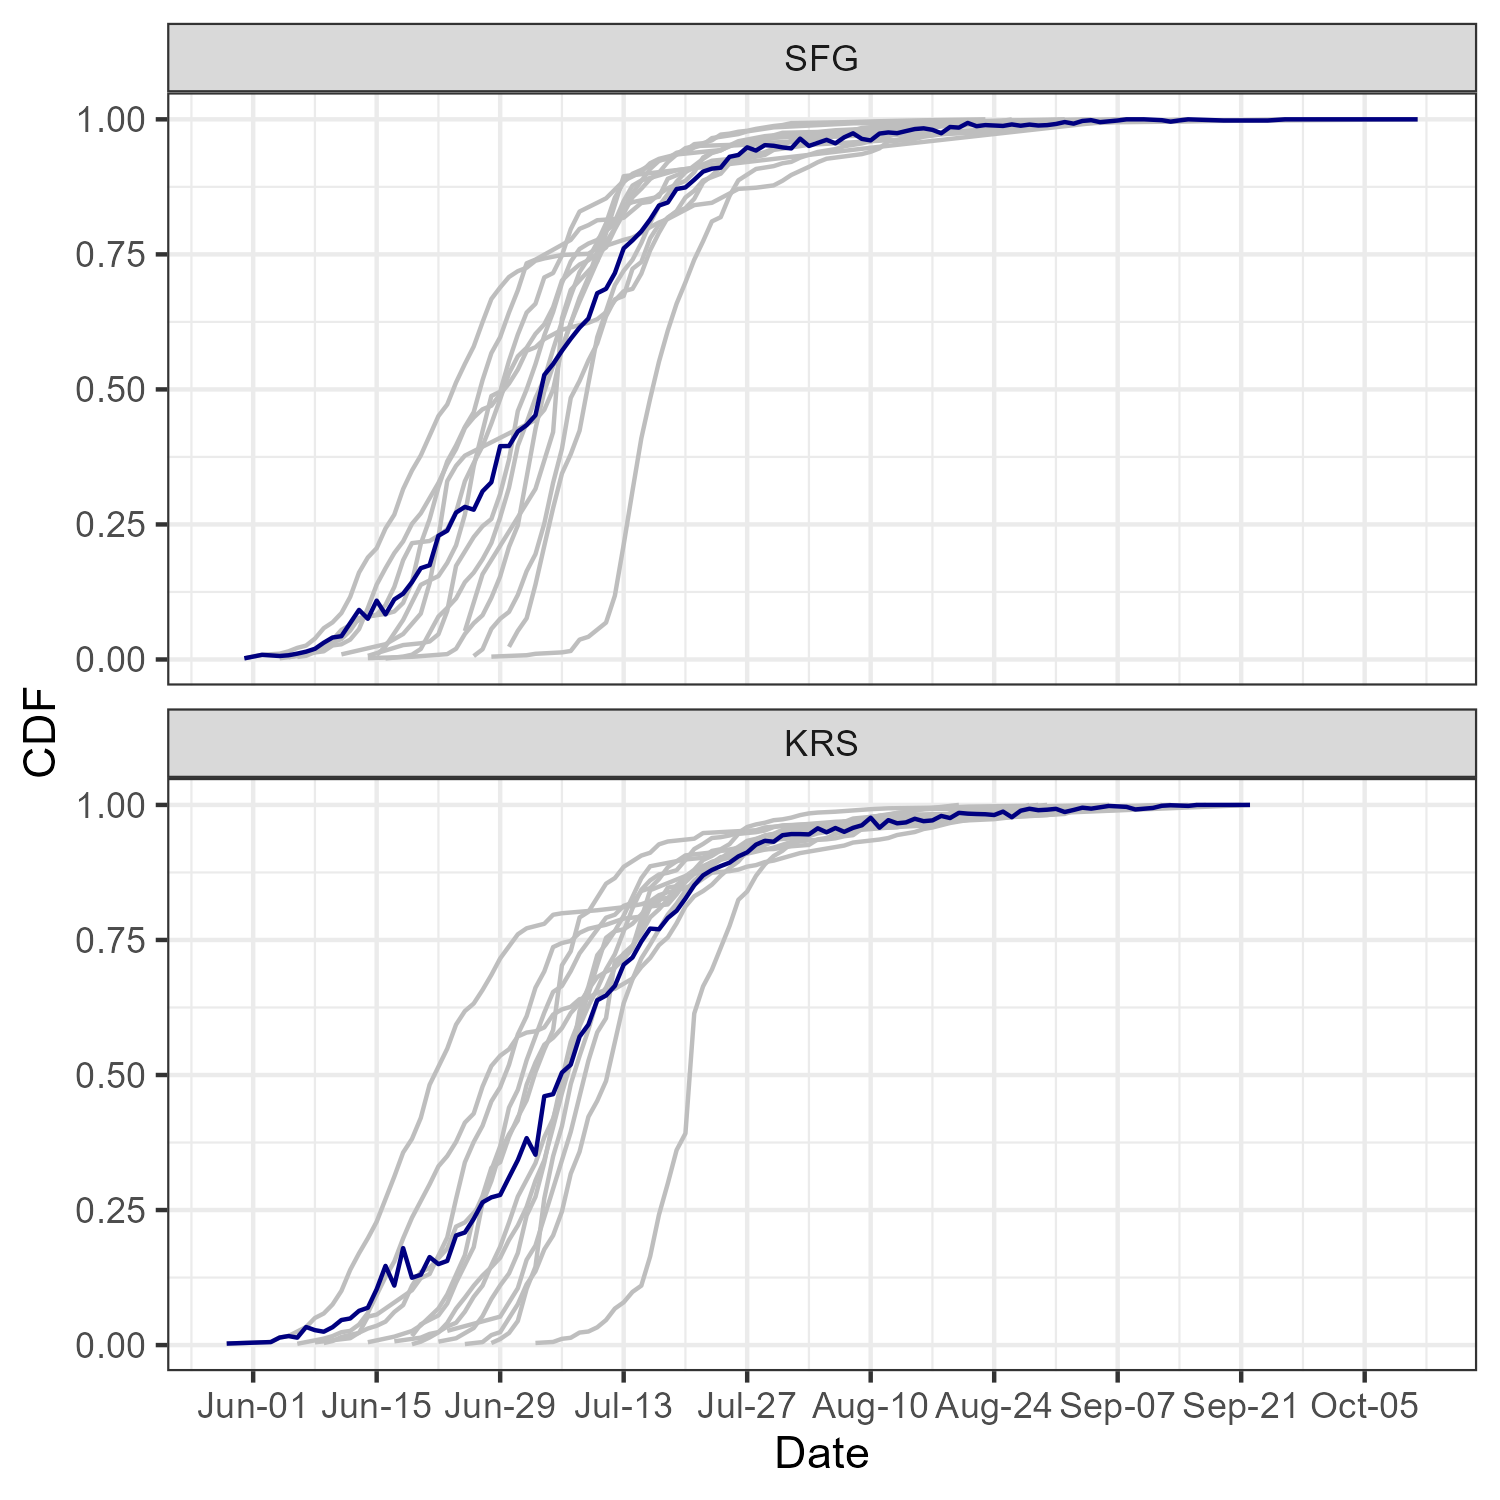
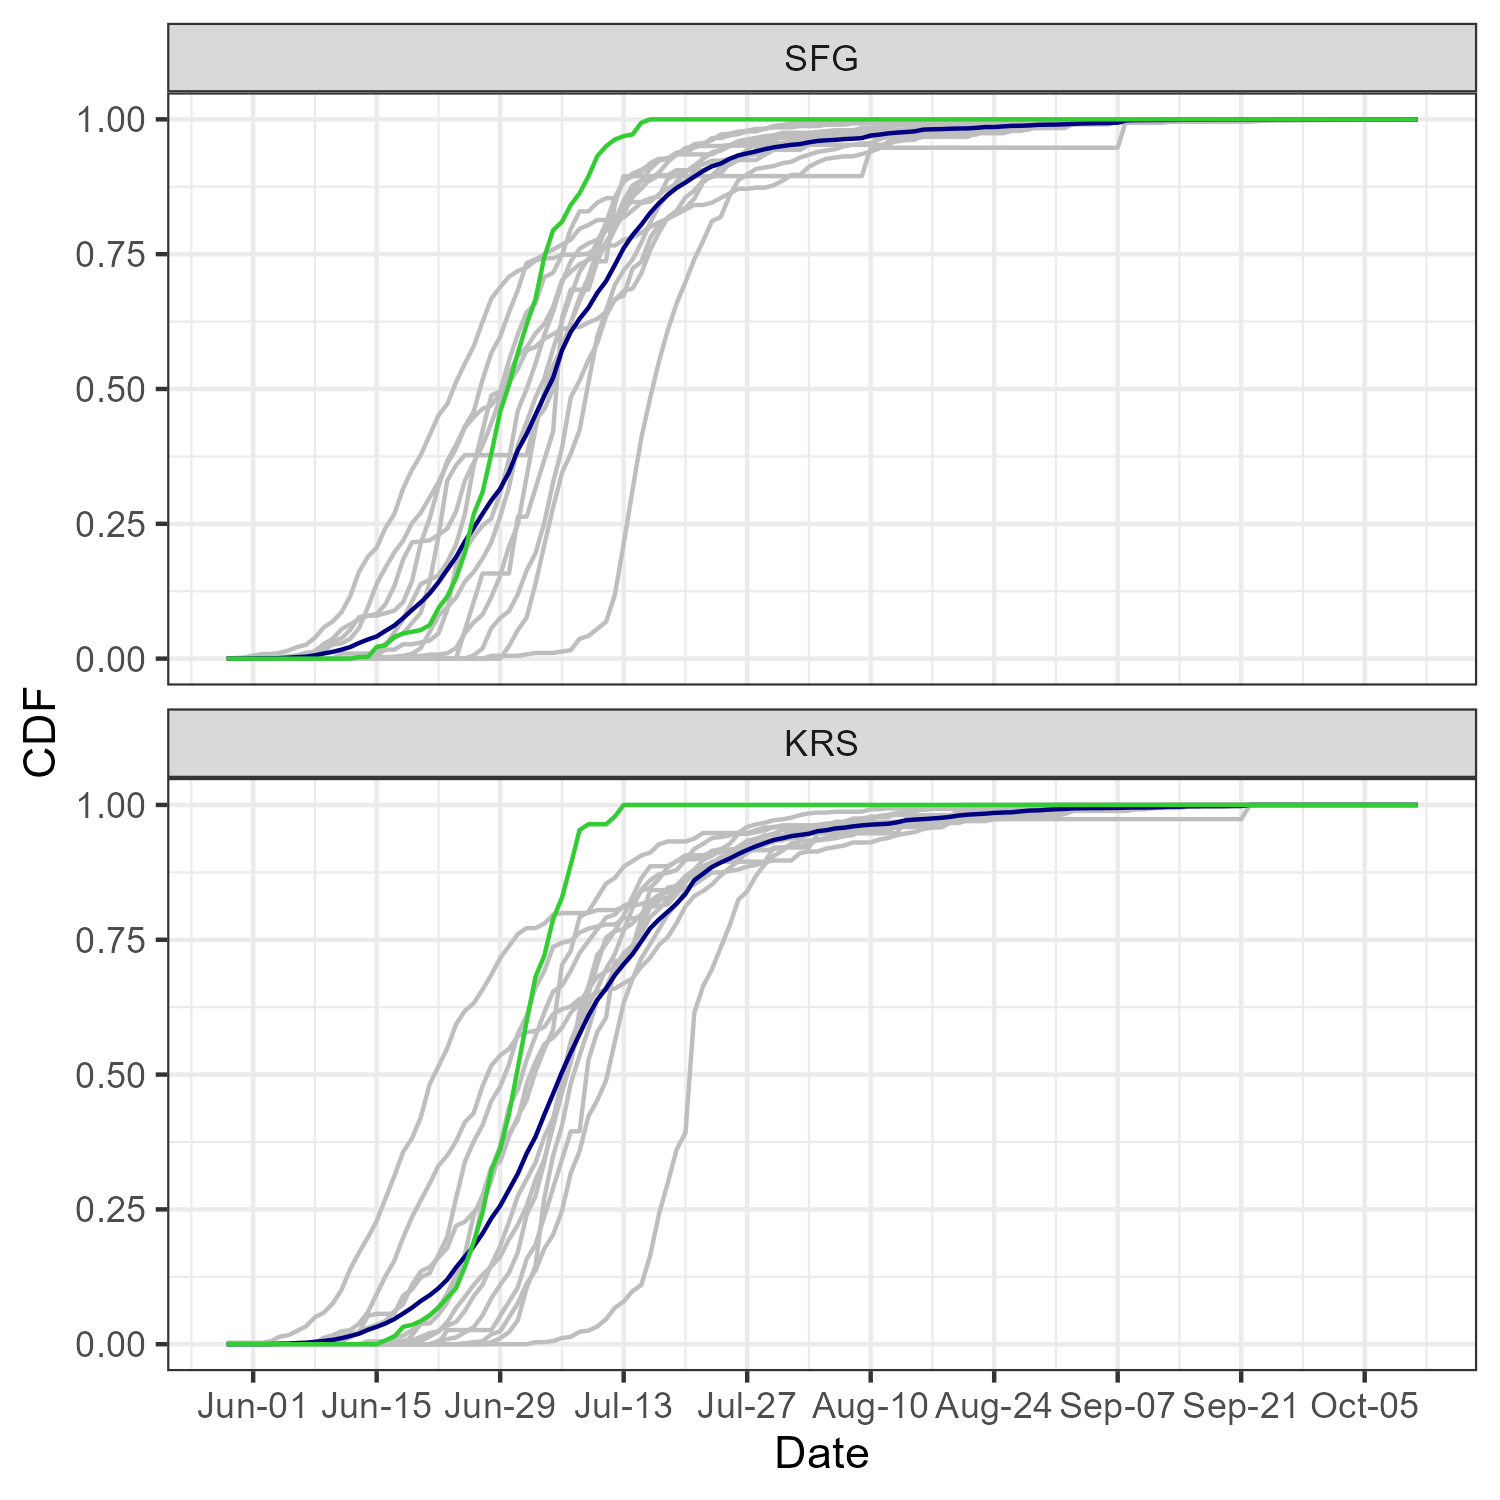
updated run timing figure and mark down doc

diff --git a/docs/KRS_inseason_ests.tex b/docs/KRS_inseason_ests.tex
@@ -42,6 +42,15 @@
 \usepackage{longtable,booktabs}
 % Fix footnotes in tables (requires footnote package)
 \IfFileExists{footnote.sty}{\usepackage{footnote}\makesavenoteenv{long table}}{}
+\usepackage{graphicx,grffile}
+\makeatletter
+\def\maxwidth{\ifdim\Gin@nat@width>\linewidth\linewidth\else\Gin@nat@width\fi}
+\def\maxheight{\ifdim\Gin@nat@height>\textheight\textheight\else\Gin@nat@height\fi}
+\makeatother
+% Scale images if necessary, so that they will not overflow the page
+% margins by default, and it is still possible to overwrite the defaults
+% using explicit options in \includegraphics[width, height, ...]{}
+\setkeys{Gin}{width=\maxwidth,height=\maxheight,keepaspectratio}
 \IfFileExists{parskip.sty}{%
 \usepackage{parskip}
 }{% else
@@ -204,7 +213,7 @@
 \raggedbottom
 
 \usepackage[australian]{babel}
-\date{July 17, 2023}
+\date{July 18, 2023}
 
 \usepackage{booktabs}
 \usepackage{longtable}
@@ -270,9 +279,17 @@
 \item
   Ad-intact fish currently estimated above KRS: 1,341
 \item
-  The average passage date of \(\ge\) 75\% of the total return across KRS is July 15th (Figure 1).
+  The average passage date of \(\ge\) 75\% of the total return across KRS is July 15th (Figure \ref{fig:run-timing}).
 \item
-  End of season ad-intact estimate: 1,788
+  End of season ad-intact total estimate: 1,788
+
+  \begin{itemize}
+  \tightlist
+  \item
+    NOR: (655 + 56)/.75 = 948
+  \item
+    Integrated: (560 + 70)/.75 = 840
+  \end{itemize}
 \end{itemize}
 
 \hypertarget{assumptions}{%
@@ -291,8 +308,9 @@
 \end{itemize}
 
 \begin{figure}
-\includegraphics[width=20.83in]{../figures/run_timing} \caption{Run-timing of SFSR hatchery (segregated and integrated) and natural origin returns across PIT-arrays. The grey lines indicate individual spawn year returns for 
- 2010-2022, and the dark blue line shows the average cumulative proportion of returns for each day.}\label{fig:run-fig}
+\centering
+\includegraphics{KRS_inseason_ests_files/figure-latex/run-timing-1.pdf}
+\caption{\label{fig:run-timing}Run-timing of SFSR hatchery (segregated and integrated) and natural origin returns across PIT-arrays. The grey lines indicate individual spawn year returns for 2010-2022, the dark blue line is the average cumulative proportion of returns across the same years, and the green line represents the current 2023 return.}
 \end{figure}
 
 \printbibliography